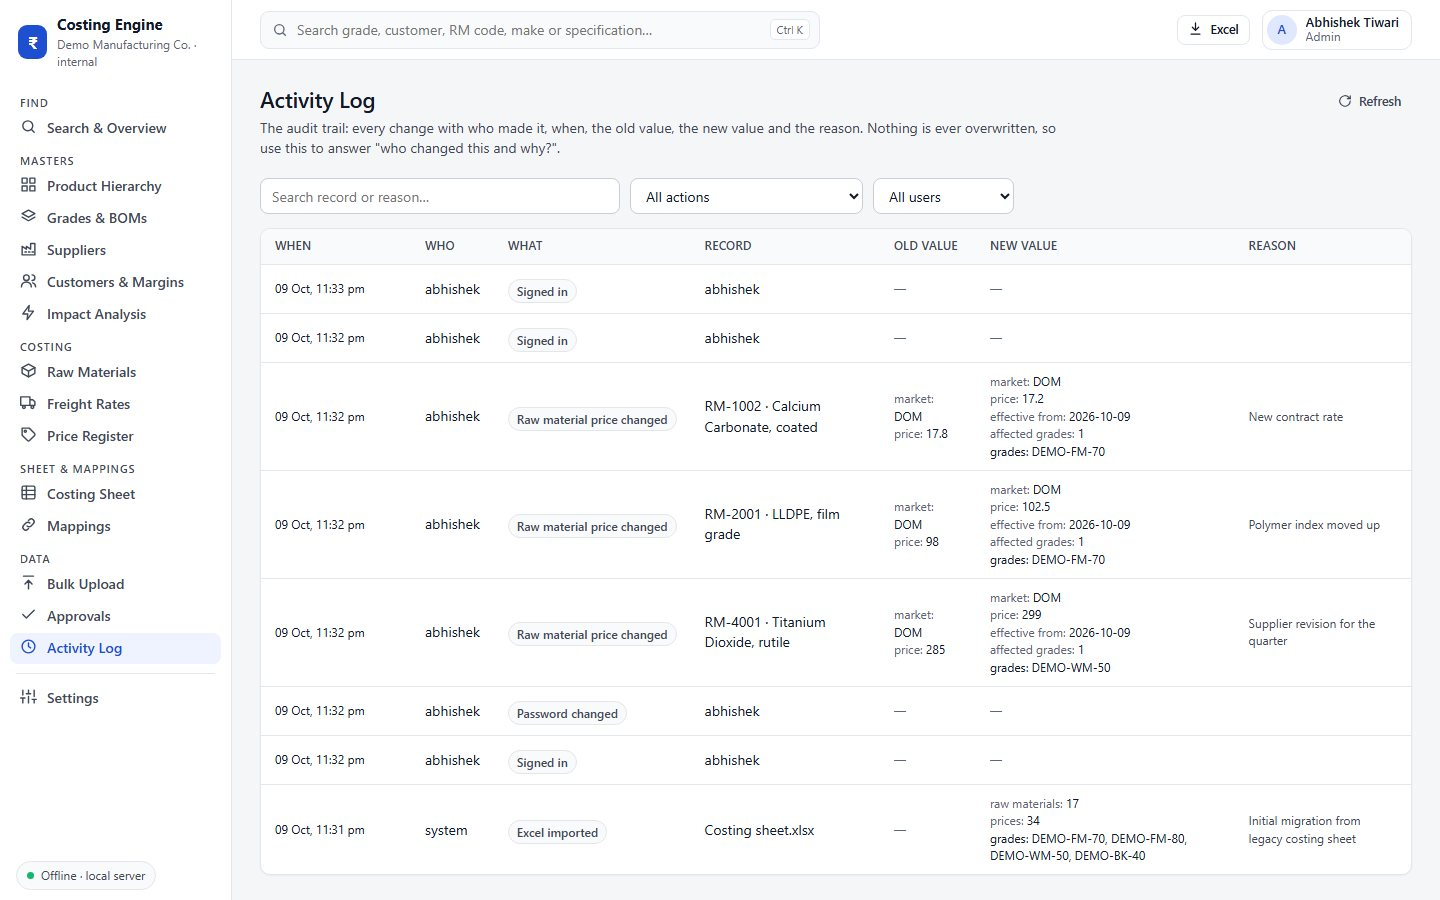
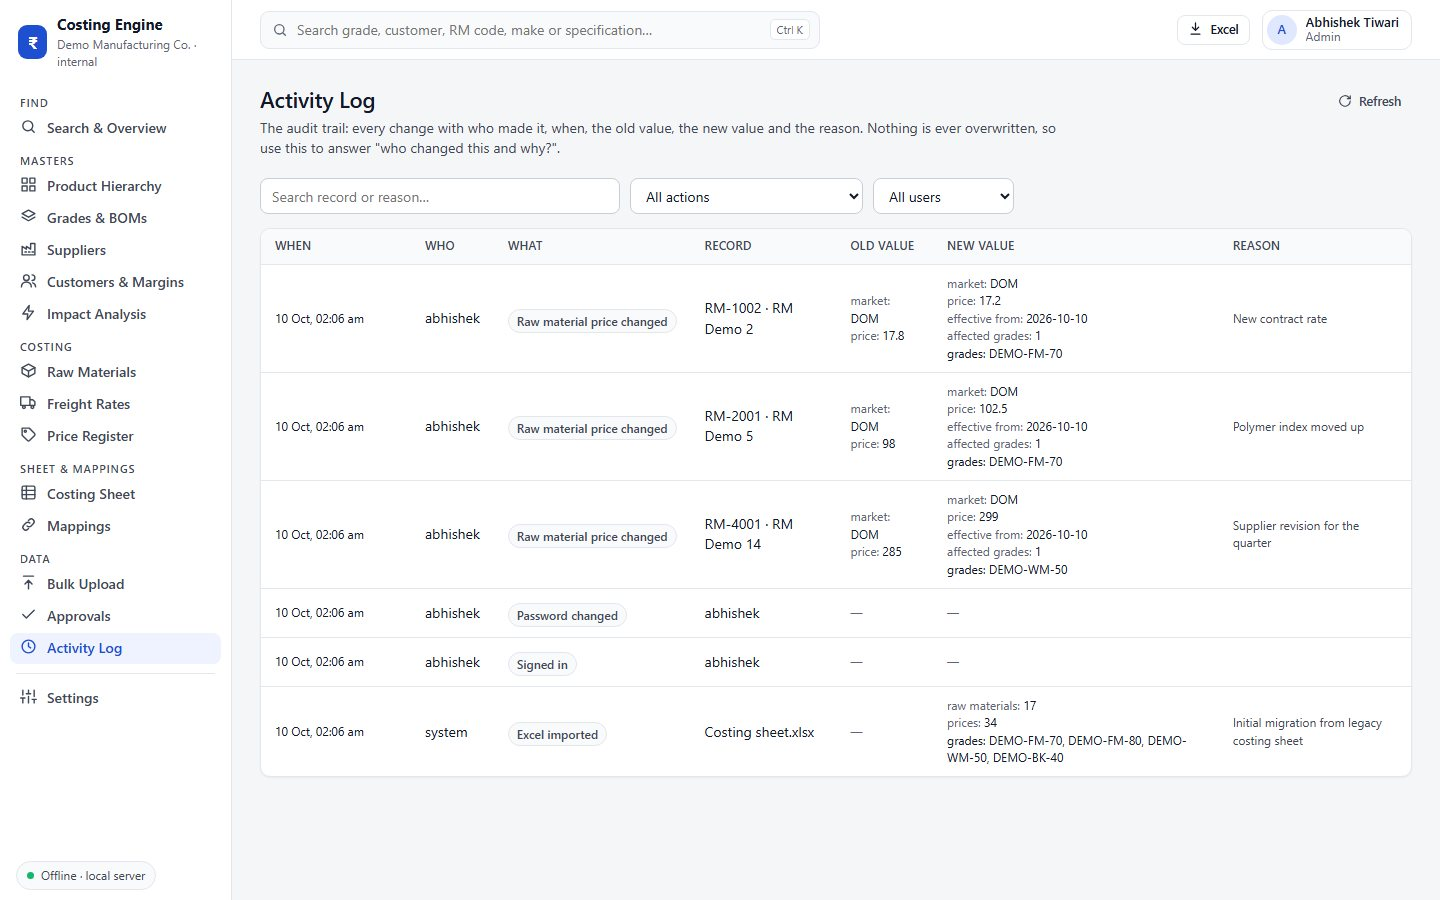
Show raw materials as RM Demo names in all screenshots

diff --git a/docs/DATA-MODEL.md b/docs/DATA-MODEL.md
@@ -25,7 +25,7 @@ erDiagram
 | Table | Holds |
 |---|---|
 | Raw materials | Code, name, category, unit, tax code, status |
-| Categories | Fillers, polymers, additives, pigments and so on |
+| Categories | Material groups (shown as Category A–D in the demo) |
 | Suppliers, material–supplier links | Who supplies what, with make and specification |
 | Raw-material prices | Price per market (domestic / export) with an **effective-from date** and an optional landed-cost breakdown |
 | Markets, exchange rates | Domestic and export; USD rate used for export costing |

diff --git a/docs/CODE-SAMPLES.md b/docs/CODE-SAMPLES.md
@@ -78,8 +78,8 @@ target_price = running                # after margin
 ```python
 def test_recipe_not_totalling_100_is_refused():
     result = calculate(CostingInput(components=[
-        line("Filler", qty="70", price="17.80"),
-        line("Polymer", qty="29.5", price="98.00"),
+        line("RM Demo 2", qty="70", price="17.80"),
+        line("RM Demo 5", qty="29.5", price="98.00"),
     ]))
     assert not result.is_valid()
     assert any(m.code == "TOTAL_NOT_100" for m in result.messages)
